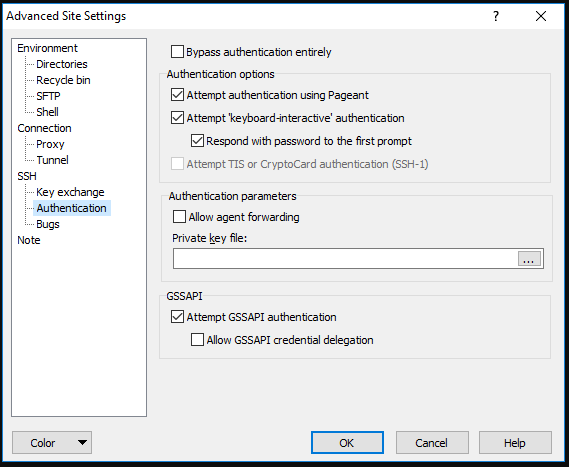
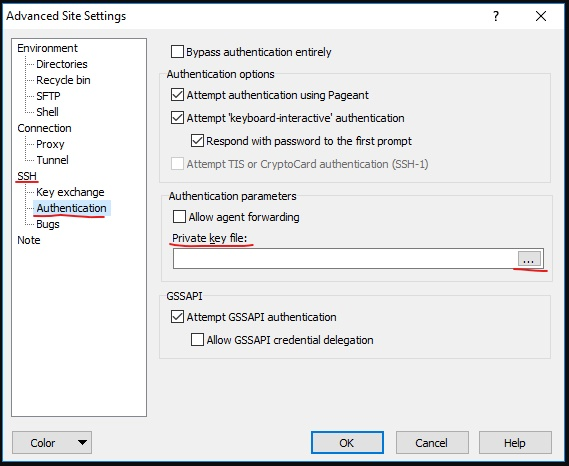
Change README
- Altered images for clarity
- More README text

diff --git a/README.md b/README.md
@@ -1,8 +1,38 @@
-<img src="https://raw.github.com/Loganair/aws-sftp/master/images/loganair.png" alt="Logo" width="600">
+<img src="https://raw.github.com/Loganair/aws-sftp/master/images/loganair.png" alt="Logo" width="300">
 
 # AWS Secure File Transfer Protocol (SFTP)
 
 ## WinSCP Setup
+
+WinSCP is a free Windows-based SFTP client that should be used to upload and download files from the SFTP server.  It can be obtained from the [WinSCP site](https://winscp.net/eng/download.php).
+
+After WinSCP is installed it should be configured with the settings below.  All configuraton steps will be described from the "Login (new site)" dialog box.
+
+<img src="https://raw.github.com/Loganair/aws-sftp/master/images/winscp-login.png" alt="WinSCP Login">
+
+### Timestamp settings
+
+Storage for AWS SFTP is provided by Amazon Simple Storage Service (S3) which does not support manually setting file timestamps.  To prevent an `SETSTAT unsupported` error when uploading files, the WinSCP "Preserve timestamp" setting should be disabled:
+
+1. Click "Tools" then "Preferences..."
+2. In the preferences dialog box, click "Transfer".
+3. Ensure "**Default**" is selected in "Transfer settings presets" and click "Edit..."
+4. Uncheck "Preserve timestamp" under "common options".
+5. Click "Ok" twice.
+
+### Private key settings
+
+Public key cryptogtaphy is used to authenticate users to the SFTP server rather than passwords. To set the private key for the account, do the following:
+
+1. Click "Advanced" under the Password box.
+2. Choose SSH > Authentication.
+3. Click the "..." icon next to the "Private key file" box.
+4. Browse to the location of the private key file (*.ppk) and choose "Open".
+5. Click "Ok" to return to the Login dialog box.
+
+<img src="https://raw.github.com/Loganair/aws-sftp/master/images/advanced-settings.png" alt="Advanced Settings">
+
+### Server settings
 
 ```Shell
 File protocol: SFTP
@@ -11,12 +41,6 @@ Port number: 22
 User name: <your user name>
 Password: leave blank
 ```
-
-Public key cryptogtaphy is used to authenticate users to the SFTP server rather than passwords. To set the private key for the account, do the following:
-
-1. Click "Advanced" under the Password box.
-2. Choose SSH > Authentication.
-3. Click the "..." icon next to the "Private key file" box.
 
 ## Server Building
 
